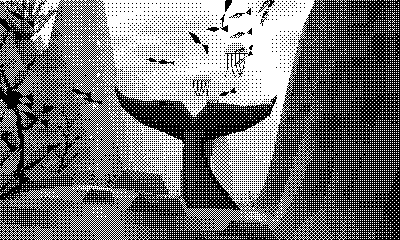
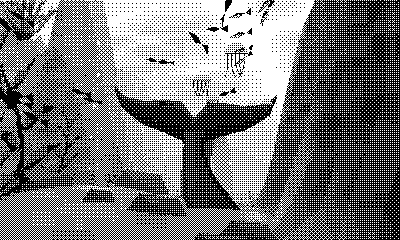
Soften coral contact shadows and light the grotto shelf

diff --git a/src/world.c b/src/world.c
@@ -2,6 +2,7 @@
 #include "wreck.h"
 #include "stone.h"
 #include <math.h>
+#include <string.h>
 
 const Site sites[SITE_COUNT]={
     {"Whale fluke",-8,12,-5,-4,2.7f,.29f},
@@ -116,9 +117,29 @@ static float hull_distance(float along,float across){
     float dz=fmaxf(0,fabsf(across)-5.6f);
     return sqrtf(dx*dx+dz*dz);
 }
-/* Static light is attached to the terrain so the LCD pattern describes the same
-   reef when the camera turns. The quarter-metre heights are in world space. */
+/* Bake contact into the tone map before lighting it. Keep the strongest
+   footprint so overlapping colonies cannot turn a shelf into a black strip. */
+static void bake_contacts(void){
+    memset(groundTone,0,sizeof groundTone);
+    for(int i=0;i<PROP_COUNT;i++){
+        const Prop *p=&props[i];
+        if(p->kind==BUBBLES || p->kind==EMPTY_PROP)continue;
+        float r=p->kind==KELP?.9f+p->size*.035f:.8f+p->size*.45f;
+        int strength=p->kind==BOULDER?19:14;
+        float cx=p->p.x+EXTENT,cz=p->p.z+EXTENT;
+        int loX=(int)clamp(floorf(cx-r),0,GROUND_SAMPLES-1),hiX=(int)clamp(ceilf(cx+r),0,GROUND_SAMPLES-1);
+        int loZ=(int)clamp(floorf(cz-r),0,GROUND_SAMPLES-1),hiZ=(int)clamp(ceilf(cz+r),0,GROUND_SAMPLES-1);
+        for(int j=loZ;j<=hiZ;j++)for(int k=loX;k<=hiX;k++){
+            float dx=k-cx,dz=j-cz,weight=1-(dx*dx+dz*dz)/(r*r);
+            if(weight<=0)continue;
+            int shade=(int)(strength*weight*weight+.5f);
+            if(shade>groundTone[j][k])groundTone[j][k]=(uint8_t)shade;
+        }
+    }
+}
+
 static void shade_ground(void){
+    bake_contacts();
     for(int j=0;j<GROUND_SAMPLES;j++)for(int i=0;i<GROUND_SAMPLES;i++){
         float x=i-EXTENT,z=j-EXTENT,h=floor_at(x,z);
         float dx=(floor_at(x+1,z)-floor_at(x-1,z))*.5f;
@@ -128,22 +149,13 @@ static void shade_ground(void){
         float grain=sinf(x*.95f+z*.28f+1.7f*sinf(z*.49f))+
                     .65f*cosf(.41f*x-1.1f*z);
         float tone=124-21*rock+sun*(16+10*rock)+grain*(3+3*rock);
-        /* The coarse material survives even in the cheapest render mode. */
         tone+=.47f*rock*stone_sample((int)(x*STONE_UNITS),(int)(h*STONE_UNITS),(int)(z*STONE_UNITS));
-        groundTone[j][i]=(uint8_t)clamp(tone,36,163);
-    }
-    /* Soft contact darkening follows the actual slope below each holdfast or colony. */
-    for(int i=0;i<PROP_COUNT;i++){
-        const Prop *p=&props[i];
-        if(p->kind==BUBBLES || p->kind==EMPTY_PROP)continue;
-        float r=p->kind==KELP?1.3f+p->size*.045f:1.25f+p->size*.80f;
-        float cx=p->p.x+EXTENT,cz=p->p.z+EXTENT;
-        int loX=(int)clamp(floorf(cx-r),0,GROUND_SAMPLES-1),hiX=(int)clamp(ceilf(cx+r),0,GROUND_SAMPLES-1);
-        int loZ=(int)clamp(floorf(cz-r),0,GROUND_SAMPLES-1),hiZ=(int)clamp(ceilf(cz+r),0,GROUND_SAMPLES-1);
-        for(int j=loZ;j<=hiZ;j++)for(int k=loX;k<=hiX;k++){
-            float dx=k-cx,dz=j-cz,weight=1-(dx*dx+dz*dz)/(r*r);
-            if(weight>0)groundTone[j][k]=(uint8_t)fmaxf(44,groundTone[j][k]-40*weight*weight);
-        }
+        /* Fine pale sediment settles on the grotto floor. The steep walls
+           retain their rock material, even in the middle of the coral bed. */
+        float gx=(x-5)/29.f,gz=(z-86)/39.f;
+        float sand=clamp(1-gx*gx-gz*gz,0,1)/(1+.8f*slope);
+        tone+=sand*(154+6*sun+3*grain-tone);
+        groundTone[j][i]=(uint8_t)clamp(tone-groundTone[j][i],36,163);
     }
 }
 static float ground_slope(float x,float z,float radius){
@@ -334,6 +346,13 @@ void generate_world(void){
        footprint before shading the floor or indexing visible props. */
     for(int i=0;i<PROP_COUNT;i++){
         Prop *p=&props[i];
+        /* Thin the wild clusters and the planted borders before both the
+           contact bake and the spatial index consume the final population. */
+        if((i<WILD_PROPS && (i%3==1 || (p->kind==CORAL && i%3==2))) ||
+           (i>=WILD_PROPS && p->kind==CORAL && i%3==1)){
+            p->kind=EMPTY_PROP;
+            continue;
+        }
         if(p->kind==BUBBLES)continue;
         float along,across;
         wreck_coordinates(p->p.x,p->p.z,&along,&across);

diff --git a/tests/grotto_ground.c b/tests/grotto_ground.c
@@ -1,0 +1,37 @@
+/* Check the exposed shelf on the approach. Isolating the terrain pass keeps a
+   passing fish or a dark coral silhouette from being mistaken for a stripe. */
+#include "render.c"
+#include <stdio.h>
+
+int main(void){
+    const int seconds[]={8,11,14};
+    uint8_t pixels[LCD_H][52];
+    generate_world();
+    prepare_renderer();
+    for(unsigned i=0;i<sizeof seconds/sizeof *seconds;i++){
+        Diver d={0};
+        d.time=4*SHOT_SECONDS+seconds[i];
+        demo_pose(&d,5,seconds[i]);
+        render(&d,pixels[0],sizeof pixels[0]);
+        water();
+        terrain();
+        int groundBlocks=0;
+        for(int y=184;y<LCD_H;y+=4){
+            int consecutive=0;
+            for(int band=144/BAND;band<BANDS;band++){
+                if(y<roofMax[ringCount][band]){consecutive=0;continue;}
+                groundBlocks++;
+                int light=0;
+                for(int dy=0;dy<4;dy++)light+=__builtin_popcount(pixels[y+dy][band]);
+                consecutive=light<=4?consecutive+1:0;
+                if(consecutive>=7){
+                    fprintf(stderr,"Dark ground stripe at %d s, row %d\n",seconds[i],y);
+                    return 1;
+                }
+            }
+        }
+        if(!groundBlocks){fprintf(stderr,"Grotto shelf out of view at %d s\n",seconds[i]);return 1;}
+    }
+    puts("Grotto shelf is visible without long dark strips beneath the coral.");
+    return 0;
+}

diff --git a/src/render.c b/src/render.c
@@ -873,11 +873,7 @@ static int16_t firstProp[CELL_COUNT][CELL_COUNT],nextProp[PROP_COUNT];
 static void index_props(void){
     memset(firstProp,0xff,sizeof firstProp);
     for(int i=0;i<PROP_COUNT;i++){
-        /* The tour has its own planted borders. Leave clear water between
-           wild clusters and keep large fronds from hiding the animals. */
         if(props[i].kind==EMPTY_PROP)continue;
-        if(i<WILD_PROPS && (i%3==1 || (props[i].kind==CORAL && i%3==2)))continue;
-        if(i>=WILD_PROPS && props[i].kind==CORAL && i%3==1)continue;
         const Vec p=props[i].p;
         int x=max2(0,min2(CELL_COUNT-1,(int)((p.x+EXTENT)/CELL_WIDTH)));
         int z=max2(0,min2(CELL_COUNT-1,(int)((p.z+EXTENT)/CELL_WIDTH)));

diff --git a/docs/rendering.ru.md b/docs/rendering.ru.md
@@ -22,6 +22,25 @@
 
 В каталоге проекта запусти `make` с установленными Playdate SDK и GNU Arm Embedded Toolchain. Makefile берёт SDK из PLAYDATE_SDK_PATH или из ~/.Playdate/config. Готовый Brineglass.pdx содержит программу для консоли и библиотеку симулятора для той системы, на которой была выполнена сборка.
 
+## Песок и тени в Coral Grotto в 0.7.3
+
+Когда группы кораллов стояли близко, их тени складывались. Тёмный участок попадал сразу на целый срез рельефа. В движении под растениями были видны чёрные полосы. Кроме того, часть прореженных растений оставляла тень. Теперь генератор сначала выбирает растения, затем запекает узкую тень у основания каждого. Там, где тени перекрываются, учитывается сильнейшая из них. На пологом дне грота появился светлый песок, на крутых стенах сохранилась фактура породы. Всё освещение грунта от этого изменения рассчитывается при загрузке.
+
+![Одиннадцатая секунда пролёта в 0.7.2 и 0.7.3](media/grotto-ground.png)
+
+На компьютере сравнили рельеф в 480 положениях камеры. Силуэт дна на каждом срезе глубины совпал. Для проверки полос отдельно отрисовали дно без живности и растений. В нижней правой части кадра (256 × 56 пикселей) измерили долю блоков 8 × 4 с четырьмя или меньшим числом светлых пикселей. За пролёт она снизилась с 9,3 % до 0 %. Команда `make check-grotto` проверяет длинные горизонтальные цепочки таких блоков на восьмой, одиннадцатой и четырнадцатой секундах.
+
+На физической Playdate со звуком при 400 × 240 полный круг дал **2910 кадров за 95,997 с (30,31 FPS)**. Пик работы в Coral Grotto составил 22 мс, во всём туре — 25 мс.
+
+| Пролёт | Кадры | FPS | Средняя работа, мс | Пик работы, мс | Интервал между кадрами, P95 / максимум, мс |
+| --- | ---: | ---: | ---: | ---: | ---: |
+| Shipwreck | 485 | 30,37 | 18,6 | 22 | 33 / 34 |
+| Kelp forest | 485 | 30,30 | 14,1 | 18 | 33 / 34 |
+| Whale fluke | 485 | 30,30 | 21,7 | 25 | 33 / 34 |
+| Sponge canyon | 485 | 30,30 | 19,7 | 23 | 33 / 34 |
+| Coral grotto | 485 | 30,30 | 16,8 | 22 | 33 / 34 |
+| Pillar grove | 485 | 30,30 | 14,7 | 18 | 33 / 34 |
+
 ## Как рыбы огибают дно в 0.7.2
 
 В прежней версии косяки под скатами могли проплыть сквозь склон, а у других косяков проверка высоты просто скрывала рыб возле грунта. Теперь при загрузке вокруг гребней строится карта безопасных подходов. Она использует 51 КиБ памяти. Квадратичное сглаживание высоты даёт непрерывный наклон траектории, по которому рыба поднимает нос перед склоном. В открытой воде она возвращается к своей глубине. У скатов запас высоты зависит от размаха крыльев, а три орбиты проходят дальше от мелководья.

diff --git a/README.ru.md b/README.ru.md
@@ -4,7 +4,7 @@
 
 Подводное демо для **Playdate**, написанное на C. В первом пролёте из зарослей показывается затонувший корабль. Камера обходит шесть мест за 96 секунд. Нажми **A** в любой момент, чтобы продолжить путь самостоятельно.
 
-**[Скачать Brineglass 0.7.2](https://github.com/meshchaninov/brineglass-playdate/releases/download/v0.7.2/Brineglass-0.7.2.pdx.zip)** · [English](README.md) · [Пролёты в движении](docs/media/tour.gif)
+**[Скачать Brineglass 0.7.3](https://github.com/meshchaninov/brineglass-playdate/releases/download/v0.7.3/Brineglass-0.7.3.pdx.zip)** · [English](README.md) · [Пролёты в движении](docs/media/tour.gif)
 
 ## Кадры демо
 
@@ -16,7 +16,7 @@
 | --- | --- |
 | ![Рифовая акула над зарослями ламинарии](docs/media/reef-shark.png) | ![Группа кальмаров идёт над гротом](docs/media/squid.png) |
 
-Стартовый кадр снят в Playdate Simulator на версии 0.7.1. Остальные кадры сохранены из C-рендера 0.7.2 в родном разрешении 400 × 240. Акул, кальмаров и косяки серебристых рыб можно встретить и в свободном плавании.
+Стартовый кадр снят в Playdate Simulator на версии 0.7.1. Остальные кадры сохранены из C-рендера 0.7.3 в родном разрешении 400 × 240. Акул, кальмаров и косяки серебристых рыб можно встретить и в свободном плавании.
 
 ## Установка
 
@@ -40,7 +40,7 @@
 
 Рельеф, объекты и живность рисуются прямо в однобитный экранный буфер **400 × 240**. Границы скал и ветвей проходят по отдельным пикселям. Освещение воды рассчитывается по опорным точкам и интерполируется внутри участков 8 × 4 пикселя. И пролёты, и свободное плавание используют один рендерер.
 
-На физической Playdate со звуком полный круг в версии 0.7.2 занял **95,998 с за 2910 кадров (30,31 FPS)**. Самый долгий вызов обновления игры с управлением, отрисовкой и звуком занял 25 мс. [Корабль до и после исправления рельефа](docs/media/wreck-clearance.png) · [Замеры шести пролётов](docs/rendering.ru.md) · [Китовый хвост до и после оптимизации](docs/media/native-comparison.png)
+На физической Playdate со звуком полный круг в версии 0.7.3 занял **95,997 с за 2910 кадров (30,31 FPS)**. Самый долгий вызов обновления игры с управлением, отрисовкой и звуком занял 25 мс. [Корабль до и после исправления рельефа](docs/media/wreck-clearance.png) · [Замеры шести пролётов](docs/rendering.ru.md) · [Китовый хвост до и после оптимизации](docs/media/native-comparison.png)
 
 ## Сборка
 

diff --git a/README.md b/README.md
@@ -4,7 +4,7 @@
 
 A one-bit diving demo for **Playdate**, written in C. The tour opens on a sunken ship. Follow the camera through six dive sites, or press **A** mid-flight and swim straight into the scene.
 
-**[Download Brineglass v0.7.2](https://github.com/meshchaninov/brineglass-playdate/releases/download/v0.7.2/Brineglass-0.7.2.pdx.zip)** · [Русский](README.ru.md) · [Watch the tour preview](docs/media/tour.gif)
+**[Download Brineglass v0.7.3](https://github.com/meshchaninov/brineglass-playdate/releases/download/v0.7.3/Brineglass-0.7.3.pdx.zip)** · [Русский](README.ru.md) · [Watch the tour preview](docs/media/tour.gif)
 
 ## From the LCD
 
@@ -16,7 +16,7 @@ A one-bit diving demo for **Playdate**, written in C. The tour opens on a sunken
 | --- | --- |
 | ![A reef shark swims above the kelp](docs/media/reef-shark.png) | ![A pod of squid swims above the coral](docs/media/squid.png) |
 
-The opening screenshot comes from v0.7.1 running in Playdate Simulator. The other frames are native 400 × 240 exports from the v0.7.2 C renderer.
+The opening screenshot comes from v0.7.1 running in Playdate Simulator. The other frames are native 400 × 240 exports from the v0.7.3 C renderer.
 
 ## Take a dive
 
@@ -41,9 +41,9 @@ Brineglass draws each frame directly into the **400 × 240** one-bit framebuffer
 
 The water projection samples wave and shaft intensities at the corners of 8 × 4 light patches. It interpolates the light across native scanlines and dithers eight LCD pixels into one byte. Triangle edges use fixed-point arithmetic. Sprites and facets are drawn from far to near, and the coral atlas skips transparent texels. The tour and free swim share this renderer.
 
-| Physical Playdate, v0.7.2, sound enabled | Result |
+| Physical Playdate, v0.7.3, sound enabled | Result |
 | --- | ---: |
-| Complete six-site tour | 2,910 frames in 95.998 s · **30.31 FPS** |
+| Complete six-site tour | 2,910 frames in 95.997 s · **30.31 FPS** |
 | Longest update, including controls, overlays and audio | 25 ms |
 | Updates over 33 ms | 0 |
 
